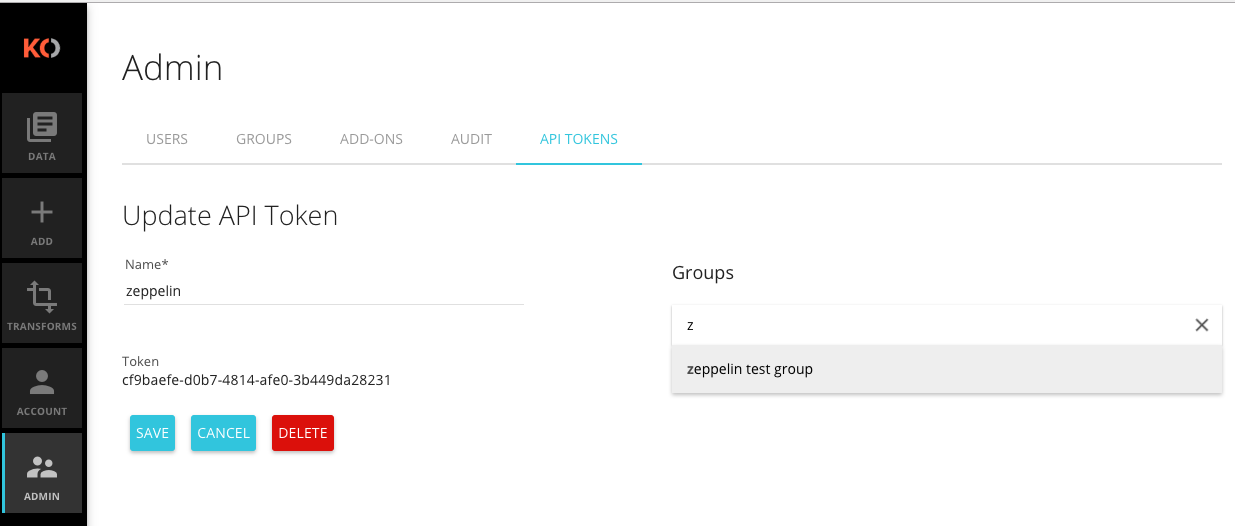
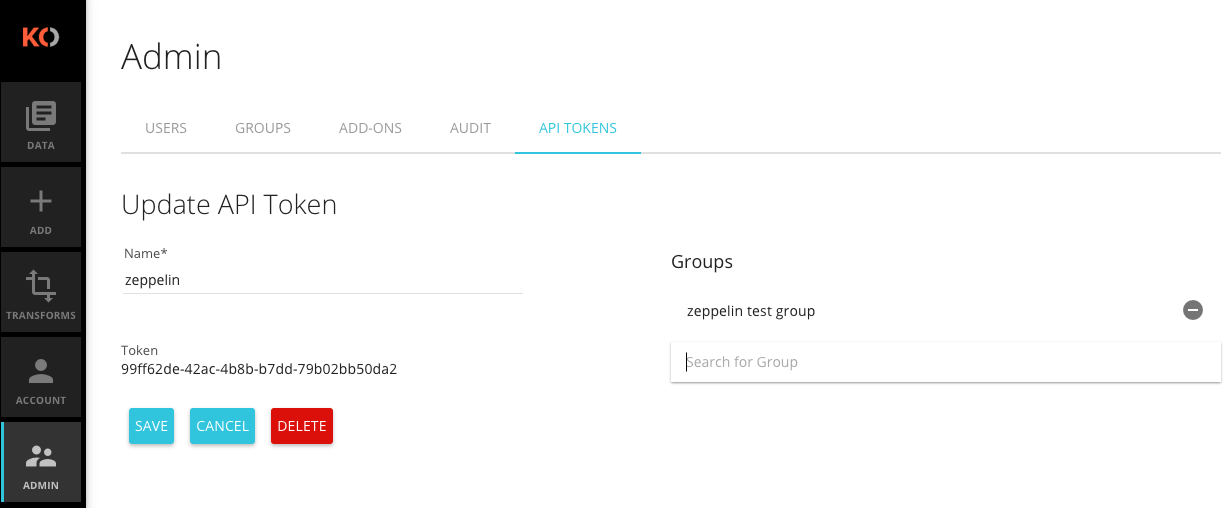
GS-212  Fixed links and new screenshots

diff --git a/docs/source/usageguide.rst b/docs/source/usageguide.rst
@@ -1156,9 +1156,9 @@ Setup
     chown zeppelin:zeppelin /home/zeppelin/koverse-spark-datasource-2.1.10.jar
 
 * Zeppelin an Ambari stack available in HDP 2.5 and later to allow for easy integration into these common control panels.  There
-  are instructions [here](https://docs.hortonworks.com/HDPDocuments/HDP2/HDP-2.5.0/bk_zeppelin-component-guide/content/ch_installation.html) for installing Zeppelin using on HDP 2.5 and later.
+  are instructions at https://docs.hortonworks.com/HDPDocuments/HDP2/HDP-2.5.0/bk_zeppelin-component-guide/content/ch_installation.html for installing Zeppelin using on HDP 2.5 and later.
 
-* If you need to install Zeppelin manually, you can follow the instructions [here](https://zeppelin.apache.org/docs/0.6.2/install/install.html) to install it from source:
+* If you need to install Zeppelin manually, you can follow the instructions at https://zeppelin.apache.org/docs/0.6.2/install/install.html to install it from source:
 
 * Once Zeppelin is installed, you will need to configure Zeppelin to connect to the Koverse data source.
   Edit the zeppelin-env.sh file and add the location of the Koverse Spark Data Source JAR to the SPARK_SUBMIT_OPTIONS variable,
@@ -1181,7 +1181,7 @@ Setup
     val df = sqlContext.read.format("com.koverse.spark").option("hostname", "localhost").option("apiToken", "99ff62de-42ac-4b8b-b7dd-79b02bb50da2").load("employees")
 
 * The data in the data frame can now be manipulated as any other data in Spark.  For example, see below for a full example
-  using the sample bank employee data available [here](https://s3.amazonaws.com/koverse-datasets/financial+demo/employees.csv)
+  using the sample bank employee data available at https://s3.amazonaws.com/koverse-datasets/financial+demo/employees.csv
 
   .. image:: /_static/UsageGuide/zeppelinNotebook.png
 
